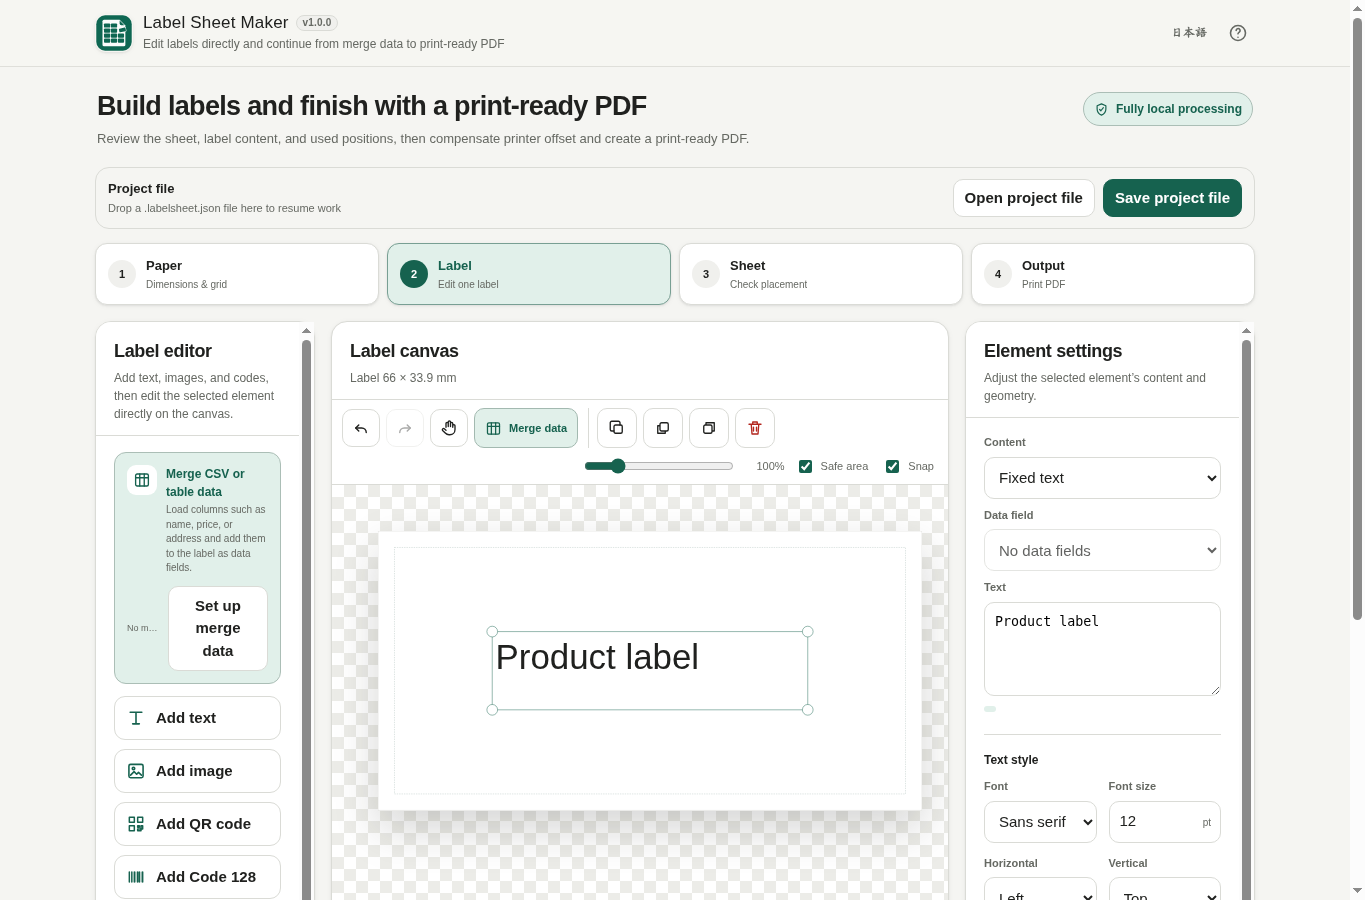
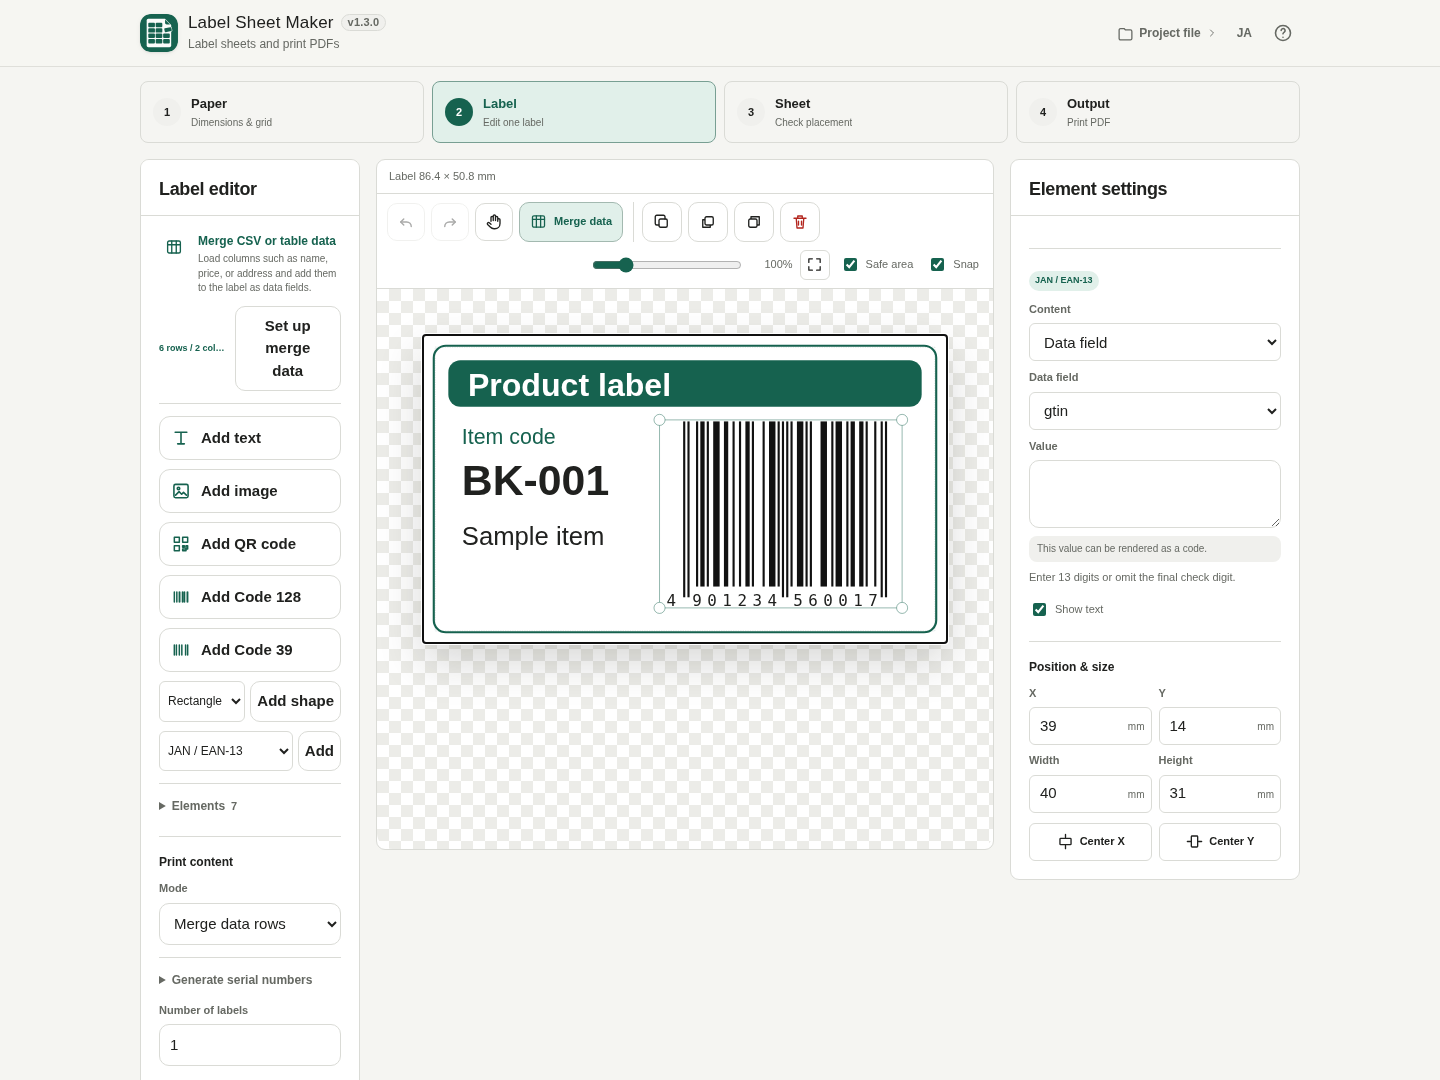
Update Japanese and English README screenshots for v1.3.0

diff --git a/README.md b/README.md
@@ -16,8 +16,6 @@ GitHub Pages delivers the initial HTML. After it loads, sheet geometry, label ed
 
 [![Label Sheet Maker screenshot](assets/screenshot-en.png)](https://ttomohisa.github.io/htmlapps-label-sheet-maker/)
 
-*Screenshot from an earlier version.*
-
 ## Features
 
 - **Define sheets by real dimensions** — Use A4, Letter, custom paper, or generic or manufacturer/product-code presets and adjust label size, rows, columns, margins, and gaps in mm or inches.
